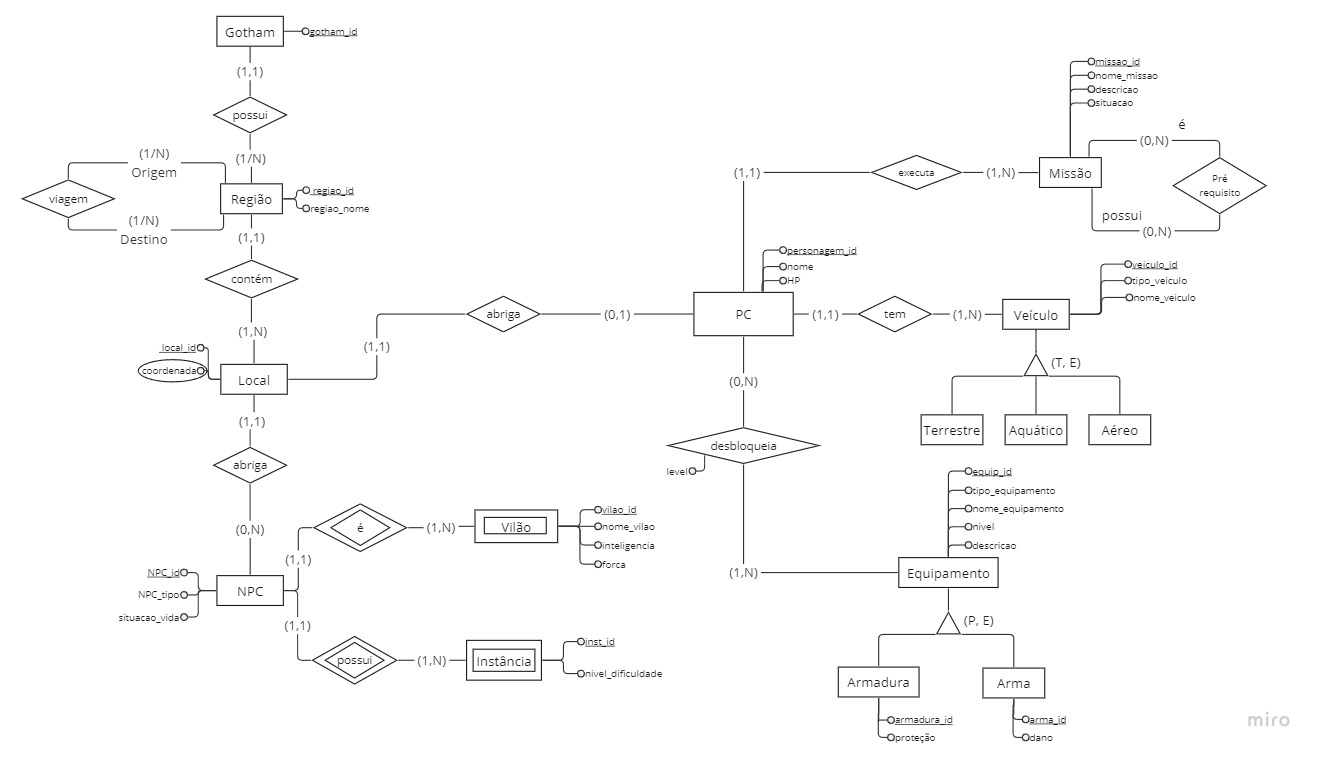
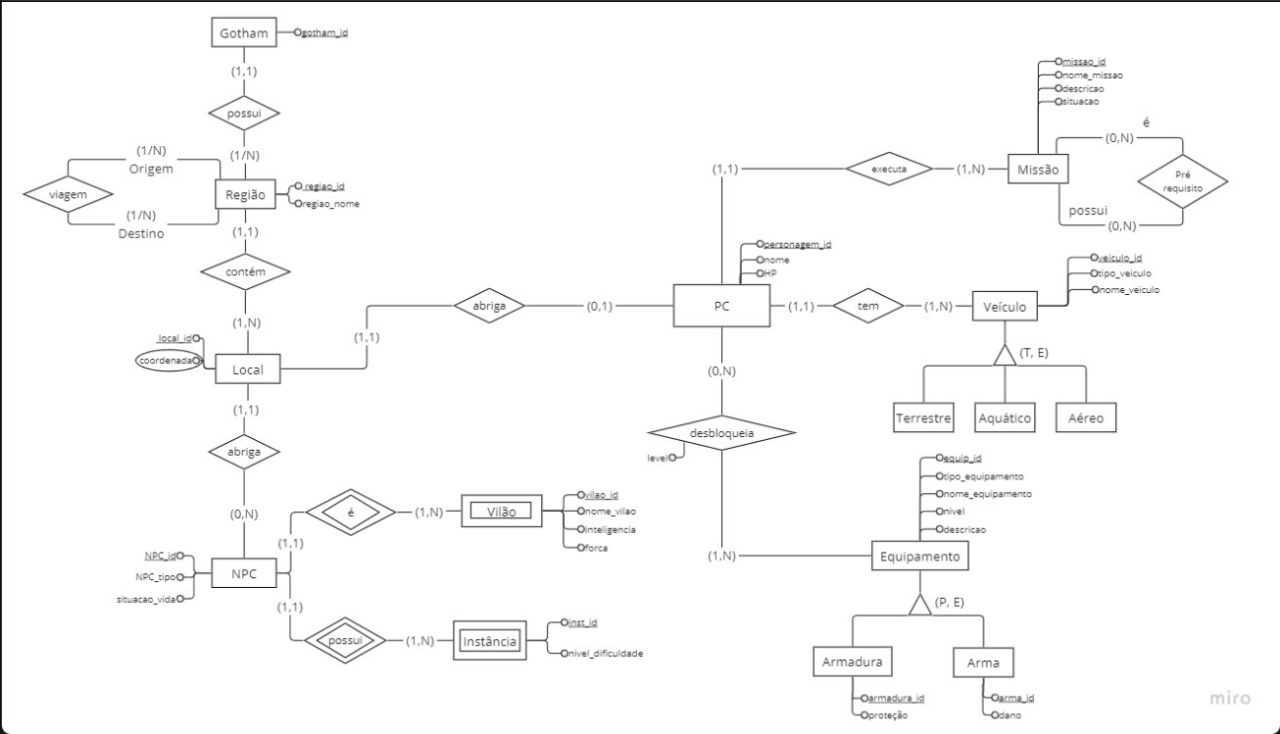
:)

diff --git a/src/repositories/quadra_repository.py b/src/repositories/quadra_repository.py
@@ -1,0 +1,70 @@
+from typing import Optional
+
+from database.handler import DatabaseHandler
+from model.quadra import Quadra
+from model.inimigo import Inimigo
+from model.pc import Pc
+
+class QuadraRepository:
+    def __init__(self) -> None:
+        self.db = DatabaseHandler()
+        
+    def quadraAtual(self, pc: Pc):
+        with self.db.connection as conn:
+            with conn.cursor() as cursor:
+                cursor.execute(
+                    "SELECT id, nome FROM public.Quadra WHERE id = %s",
+                    [pc.id_quadra]
+                        )
+                result = cursor.fetchone()
+
+        print(result)
+        quadraAtual = Quadra(*result)
+            
+        return quadraAtual
+    
+    def updateQuadra(self, pc: Pc, opcao: int) -> None:
+        print(pc)
+        with self.db.connection as conn:
+            with conn.cursor() as cursor:
+                cursor.execute(
+                     "UPDATE public.Jogador SET id_quadra = %s WHERE id = %s ",
+                    [opcao, pc.id]  
+                 )
+    
+    def findQuadraById(self, id) -> Optional[Quadra]:
+        with self.db.connection as conn:
+            with conn.cursor() as cursor:
+                cursor.execute(
+                    "SELECT id, nome FROM public.quadra WHERE id = %s",
+                    [id]
+                )
+                result = cursor.fetchone()
+        
+        if result is None:
+            print(f'quadra com id {id} não encontrada!')
+            return None
+        
+        quadra = Quadra(*result)
+        
+        return quadra
+
+    def encontrarInimigos(self, pc: Pc):
+       # print(user) 
+        
+        with self.db.connection as conn:
+            with conn.cursor() as cursor:
+                cursor.execute(
+                    """SELECT *
+                        FROM public.comum
+                        join public.inimigo on public.comum.id_inimigo = public.inimigo.id
+                        join public.npc on public.npc.id_quadra = %s and public.inimigo.id_npc=npc.id;
+                    """,
+                        [pc.id_quadra])
+                result = cursor.fetchone()
+        print(result)
+
+        inimigo = Comum(*result)
+
+        return inimigo
+    

diff --git a/src/main.py b/src/main.py
@@ -3,8 +3,9 @@ import os
 
 from typing import Optional
 from service.pc_service import PCService
-
-
+from service.quadra_service import QuadraService
+from repositories.quadra_repository import QuadraRepository
+from repositories.inimigo_repository import InimigoRepository
 
 def clear():
     # os.system('cls')
@@ -15,16 +16,22 @@ class Main:
 
     def __init__(self):
         self.PCService = PCService()
-        self.salaService = SalaService()
-        self.salaRepository = SalaRepository()
+        self.quadraService = QuadraService()
+        self.quadraRepository = QuadraRepository()
         self.service = GeneralServices()
         self.inimigos = InimigoRepository()
         self.inventarioService = InventarioService()
 
         
     def start(self):
-
-        print("batman\n")
+        
+        print("BATMAN\n")
+        print( "    ⣀⣤⣤⣶⣾              ⣶⣶⣦⣤⣀        ")
+        print( "⣀⣴⣶⣿⣿⣿⣿⣿⣿⣷⣄          ⣀⣴⣿⣿⣿⣿⣿⣿⣷⣦⣄⡀")
+        print( "⠁  ⠈⠉⠛⣿⣿⣿⣿⣿⣷⣦⣀⢠⣆⣸⡆⢀⣤⣾⣿⣿⣿⣿⣿⠟⠋⠉    ")
+        print( "      ⠸⠿⠿⠿⠿⢿⣿⣿⣿⣿⣿⣿⣿⣿⣿⠿⠿⠿⠿⠏       ")
+        print( "            ⠉⠻⣿⣿⣿⣿⠿⠋⠁            ")
+        print( "               ⠉⠉⠁              \n")
 
         print('Escolha uma das opções abaixo(1-3):\n')
 
@@ -68,7 +75,7 @@ class Main:
             print('Escolha uma das opções abaixo(1/2):\n')
 
             print('1 - Mover de sala\n' +
-                '3 - Sair\n\n\n')
+                '2 - Sair\n\n\n')
 
             print('Digite a opção desejada: \n')
 

diff --git a/src/model/quadra.py b/src/model/quadra.py
@@ -1,10 +1,10 @@
 class Quadra:
-    def __init__(self, id, local_id, escalavel, coord_x, coord_y):
-        self.id = id
+    def __init__(self, id_quadra, local_id, escalavel, coord_x, coord_y):
+        self.id_quadra = id_quadra
         self.local_id = local_id
         self.escalavel = escalavel
         self.coord_x = coord_x
         self.coord_y = coord_y
 
     def __str__(self):
-        return f"Quadra[id={self.id}, local_id={self.local_id}, escalavel={self.escalavel}, coord_x={self.coord_x}, coord_y={self.coord_y}]"
+        return f"Quadra[id={self.id_quadra}, local_id={self.local_id}, escalavel={self.escalavel}, coord_x={self.coord_x}, coord_y={self.coord_y}]"

diff --git a/Docs/Entrega-01/DER.md b/Docs/Entrega-01/DER.md
@@ -1,24 +1,48 @@
 # DER - DIAGRAMA ENTIDADE E RELACIONAMENTO
 
-O Modelo Entidade Relacionamento, mais conhecido como MER, é um modelo conceitual importante para projetar sistemas de banco de dados de maneira eficaz e entender como as entidades (objetos ou conceitos) estão interconectadas. Sendo usado como base para o nosso trabalho sobre o jogo Batman Arkham Knight da 
-disciplina de Banco de Dados 1, ministrada pelo professor Maurício Serrano.  
+O Modelo Entidade Relacionamento, mais conhecido como MER, é um modelo conceitual importante para projetar sistemas de banco de dados de maneira eficaz e entender como as entidades (objetos ou conceitos) estão interconectadas. Sendo usado como base para o nosso trabalho sobre o jogo Batman Arkham Knight da disciplina de Banco de Dados 1, ministrada pelo professor Maurício Serrano.  
 
 ## DER - Batman Arkham Knight
 
-![image](https://github.com/SBD1/2023.2-BatmanArkhamKnight/blob/main/Images/DER_Batman.jpg)
+Abaixo seguem os Diagramas Entidade Relacionamento, com suas respectivas versões:
 
-<font size="3">
-<p style="text-align: center">Imagem 1: Diagrama Entidade Relacionamento Batman Arkham Knight.</p>
-<p style="text-align: center">Fonte: Autores.</p>
-</font>
+<center>
 
-![image](https://github.com/SBD1/2023.2-BatmanArkhamKnight/assets/125216584/5da8de8b-e419-445c-969b-80e91fb3af6d)
-<font size="3">
-<p style="text-align: center">Imagem 2: Segunda versão do Diagrama Entidade Relacionamento Batman Arkham Knight.</p>
-<p style="text-align: center">Fonte: https://github.com/JoosPerro.</p>
-</font>
+**Imagem 1** - Diagrama Entidade Relacionamento Batman Arkham Knight.
+
+![image](../../Images/DER_Batman.jpg)
+
+**Fonte:** Autores.
+
+</center>
+
+<center>
+
+**Imagem 2** - Segunda versão do Diagrama Entidade Relacionamento Batman Arkham Knight..
+
+![image](../../Images/DER_Batman2.jpg)
+
+**Fonte:** Autores.
+
+</center>
 
 ## Entidades
+
+Segue a baixo a descrição de cada entidade.
+
+| **Entidade** | **Descrição** |
+| ------------ | ------------- |
+| Mapa         |               |
+| Região       |               |
+| Local        |               |
+| Quadra       |               |
+| Evidência    |               |
+| Missão       |               |
+| Objetivo
+
+
+
+
 
 ### Gotham
 
